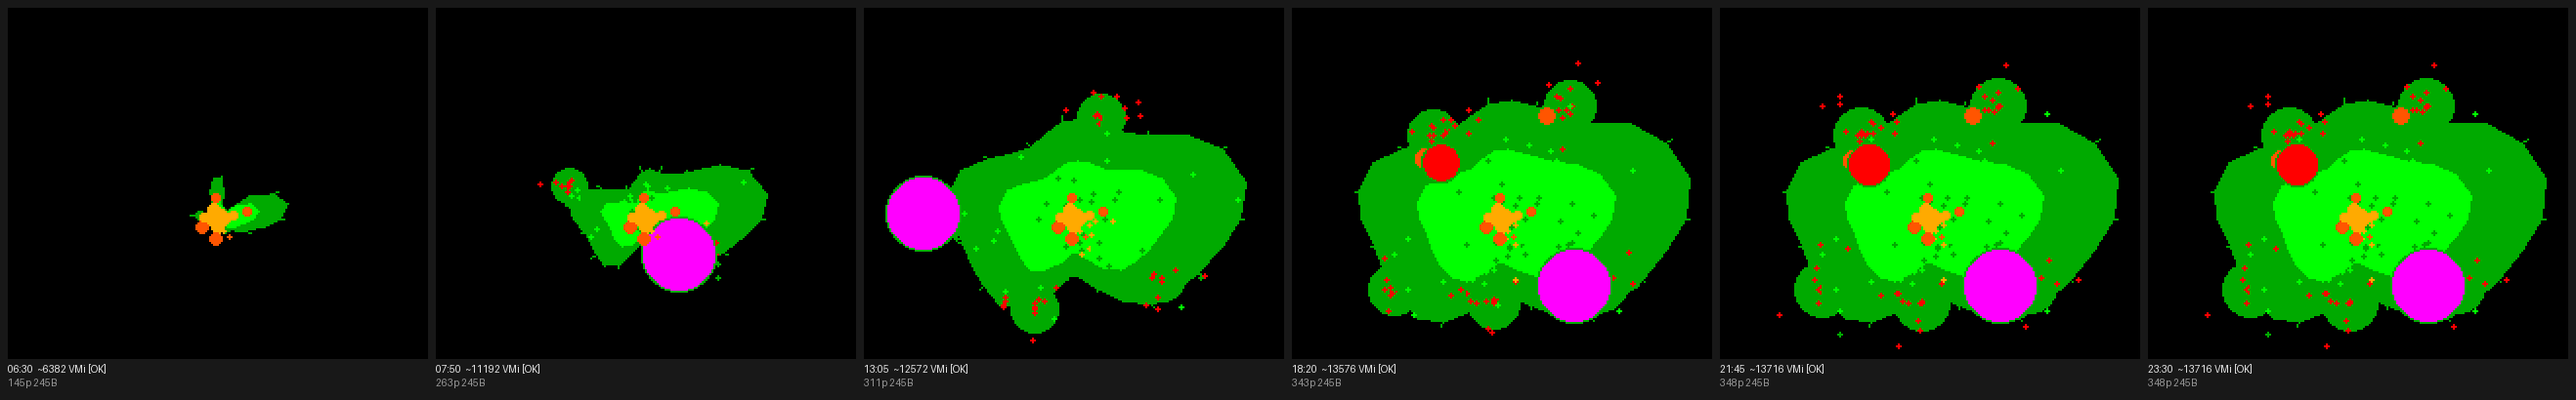
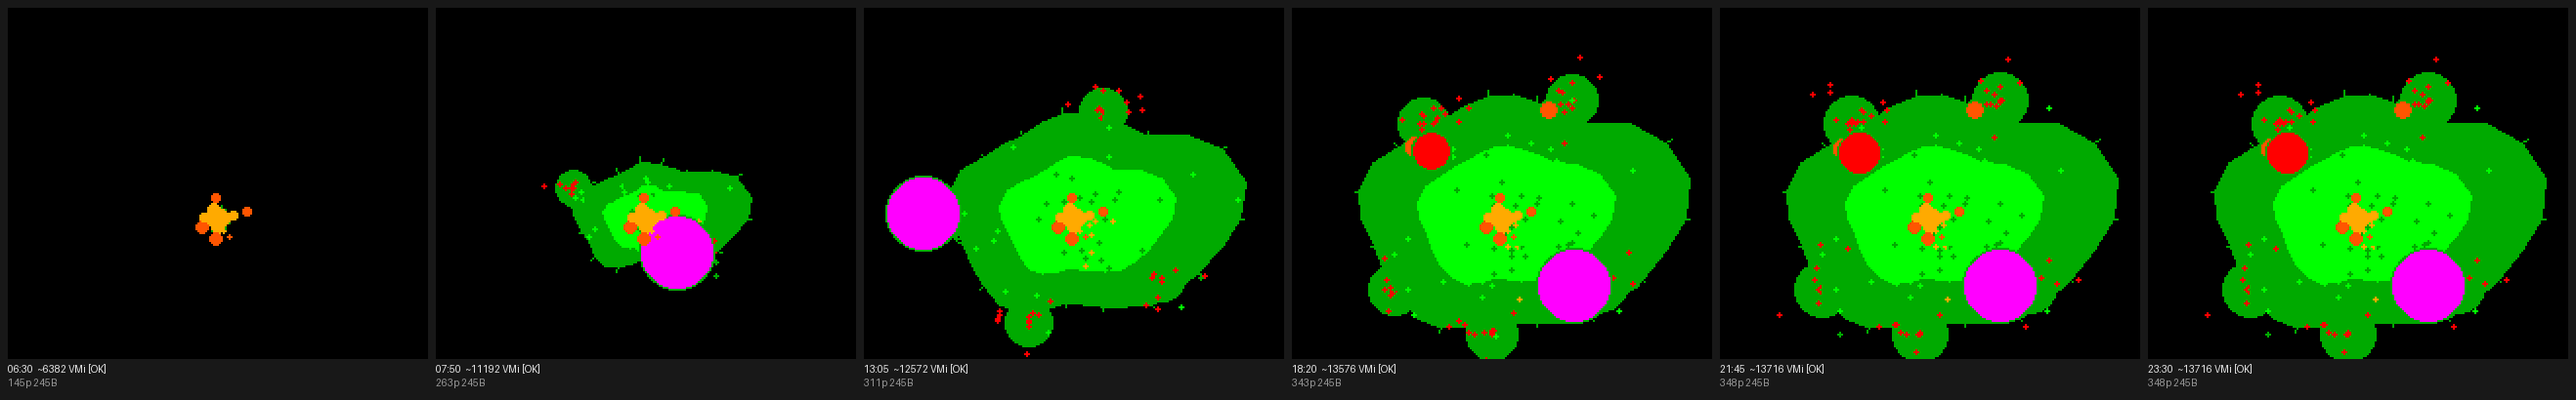
MossGrove: scale outline amps by cushion base, halve valleys (fix starfish)
On a sedentary day the base radius stays small while the lobe amplitudes were
absolute (up to ~27 px scaled with the 170% per-lobe boost), so the wobble
swamped the body: the wrist showed an angular starfish with valleys cut to
the nucleus (2026-07-10 photo). Two changes, approved as sandbox variant B:

- outline amplitudes (lobe, ripple, tilt) now scale by min(1, base/AMPREF=40),
  hoisted per frame, so a small cushion only wobbles proportionally
- negative excursions halved in edge(), keeping the inter-lobe valleys
  shallow: the inner radius stays fat relative to the tips

The miss traced to the review strips using the high-activity synthetic
profile, whose fat base hid the ratio problem; the rest profile reproduces
the photo and now renders proportionate cushions (both scrub strips
committed). devface 16/16; release PRG rebuilt (52,140 B), sim smoke test
clean at 57.3/59.8 kB; cost proxy unchanged (~13.7k VMi active, ~11.6k rest).

Claude-Session: https://claude.ai/code/session_01GL6FTbE8uyBtQi1vWPXJw9

diff --git a/sketches/algos/moss_grove.py b/sketches/algos/moss_grove.py
@@ -40,6 +40,7 @@ BASE_DIV = 60          # act_units -> cushion radius
 TUFT_DIV = 600         # act_units -> one more satellite tuft
 SCN = 5                # overall size scale = SCN/SCD (= 1.25x), applied to every
 SCD = 4                # radial extent: cushion, lumpiness, tufts, spore, beads
+AMPREF = 40            # base radius (px, scaled) at which outline amps reach 100%
 
 
 def scl(v):
@@ -162,11 +163,6 @@ class MossGrove:
             return
         ink = INK
         seed = rec.seed
-        sp = shape_params(seed)                # per-day lumpy outline
-        # scale the lumpiness amplitudes with the overall size (sp = tuple);
-        # per-lobe percents (sp[8]) are ratios and do not scale
-        sp = (sp[0], sp[1], sp[2], sp[3], scl(sp[4]), scl(sp[5]),
-              sp[6], scl(sp[7]), sp[8])
         dz = dominant_zone(rec, ACTIVE)        # the day's exertion colour
         if dz < 0:
             dz = dominant_zone(rec)
@@ -177,6 +173,16 @@ class MossGrove:
         if base > 54:
             base = 54
         base = scl(base)                       # 1.25x overall scale
+
+        sp = shape_params(seed)                # per-day lumpy outline
+        # scale the lumpiness amplitudes with the overall size AND with the
+        # cushion base (min(1, base/AMPREF)): absolute amps on a small
+        # sedentary-day base turned the patch into an angular starfish
+        # (2026-07-10 wrist). Per-lobe percents (sp[8]) are ratios; unscaled.
+        s = 100 if base >= AMPREF else idiv(100 * base, AMPREF)
+        sp = (sp[0], sp[1], sp[2], sp[3],
+              idiv(scl(sp[4]) * s, 100), idiv(scl(sp[5]) * s, 100),
+              sp[6], idiv(scl(sp[7]) * s, 100), sp[8])
         ntuft = idiv(act, TUFT_DIV)
         if ntuft > 7:
             ntuft = 7

diff --git a/sketches/mossutil.py b/sketches/mossutil.py
@@ -49,16 +49,24 @@ def shape_params(seed):
 # Lumpy patch radius (px) at angle a for a base radius: base + two undulations
 # (+ per-lobe amplitude and the frequency-1 tilt when sp carries them).
 # Pass a shape_params tuple `sp` for per-day variation; default = the old shape.
+#
+# Negative excursions are HALVED (extended sp only): the valleys between lobes
+# stay shallow so the body reads as one fat cushion, not a starfish -- the
+# 2026-07-10 wrist regression. The caller scales the amplitudes by the cushion
+# base (see moss_grove) for the same reason: absolute amps on a sedentary-day
+# base turned the patch into angular spikes.
 def edge(base, a, sp=DEFAULT_SP):
     ph1 = a * sp[2] + sp[0]
-    am1 = sp[4]
     if len(sp) > 6:
-        am1 = idiv(am1 * sp[8][imod(idiv(ph1, 256), sp[2])], 100)
-    e = base + idiv(am1 * isin(imod(ph1, 256)), 127) \
-             + idiv(sp[5] * isin(imod(a * sp[3] + sp[1], 256)), 127)
-    if len(sp) > 6:
-        e += idiv(sp[7] * isin(imod(a + sp[6], 256)), 127)
-    return e
+        am1 = idiv(sp[4] * sp[8][imod(idiv(ph1, 256), sp[2])], 100)
+        d = idiv(am1 * isin(imod(ph1, 256)), 127) \
+          + idiv(sp[5] * isin(imod(a * sp[3] + sp[1], 256)), 127) \
+          + idiv(sp[7] * isin(imod(a + sp[6], 256)), 127)
+        if d < 0:
+            d = idiv(d, 2)
+        return base + d
+    return base + idiv(sp[4] * isin(imod(ph1, 256)), 127) \
+                + idiv(sp[5] * isin(imod(a * sp[3] + sp[1], 256)), 127)
 
 
 # Fill a lumpy disc centred at (cx, cy) out to edge(base,a)*scalepct/100, as a
